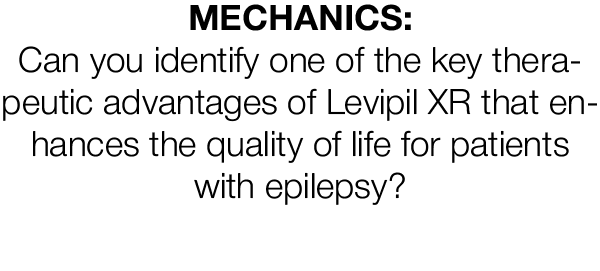
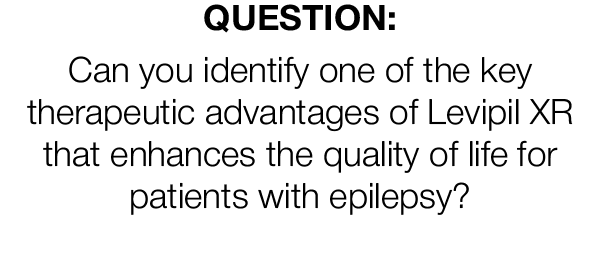
update: remove other letters

Changed region(s): [[0.0, 0.1476, 1.0, 0.797], [0.3, 0.0, 0.69, 0.1181]]

diff --git a/src/scenes/MainGame.ts b/src/scenes/MainGame.ts
@@ -235,7 +235,7 @@ export default class MainGame extends Phaser.Scene {
 		});
 		letters.add(letter_5);
 
-		// letter_6
+		// letter_6?
 		const letter_6 = new CustomText(this, 884, 473, "T", {
 			color: "#000000ff",
 			fontFamily: "funny",
@@ -380,8 +380,10 @@ export default class MainGame extends Phaser.Scene {
 		const matchLetters = this.shuffleWords(this.allLetters);
 
 		this.letterList.forEach((letter, index) => {
-			letter.setInteractive({ draggable: true });
+			const isBlock: boolean = matchLetters[index] === "-";
+			letter.setInteractive({ draggable: !isBlock });
 			letter.text = matchLetters[index];
+			letter.alpha = isBlock ? 0 : 1;
 			letter.on("pointerdown", () => {
 				if (!letter.isCentered) {
 					letter.isCentered = true;

diff --git a/src/scenes/Instruction.ts b/src/scenes/Instruction.ts
@@ -75,7 +75,7 @@ export default class Instruction extends Phaser.Scene {
 				case "mechanicsLevel2":
 					this.scene.start("MainGame", {
 						wordToGuess: "COMPLIANCE",
-						allLetters: "COMPLIANCEKSDW",
+						allLetters: "COMPLIANCE----",
 						nextScene: "DetailerPage2",
 					});
 					break;
